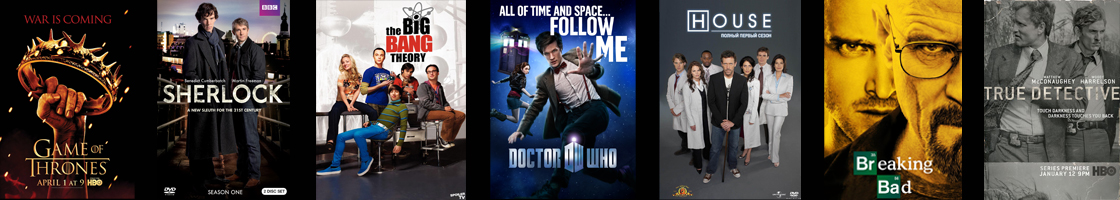
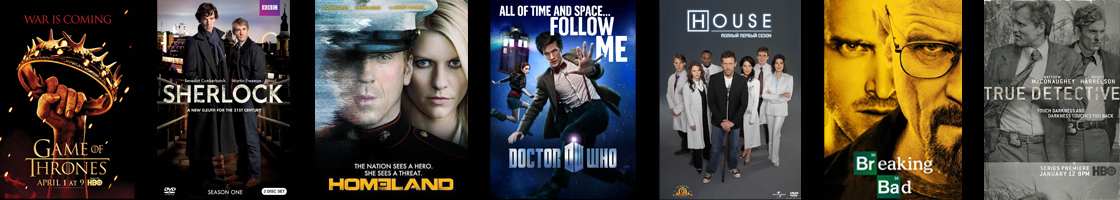
заполнение топ

Changed region(s): [[0.2812, 0.0, 0.4375, 1.0]]

diff --git a/top.html b/top.html
@@ -48,10 +48,112 @@
 							<h2>
 								Лучшие сериалы нашего времени
 							</h2>
-							<img class="top" src="images/game.jpg" width="1120" height="630" alt="Шерлок" />
-							<p align="justify"></p>
-							<p align="justify"></p>
-							
+							<p align="justify">Интересный факт из нейронаучных исследований: человек, и, действуя самостоятельно, и читая или смотря рассказ о действии, 
+							активирует те же участки мозга, то есть на уровне мозга невозможно определить, сам человек действует, или смотрит, читает об этом. 
+							Таким образом, просмотр сериалов может помочь человеку приобрести некоторый жизненный опыт, расширить его представления о мире, 
+							помочь адаптироваться к сложным реалиям современности. Наблюдая за героями, за непростыми ситуациями, в которых они оказываются, 
+							человек учится терпимее относиться к живым, окружающим его людям, приобретает здоровую психологию и гармоничный взгляд на мир.</p>
+							<img class="top" src="images/game.jpg" width="1120" height="630" alt="Кадр из Игры Престолов" />
+							<p align="justify">К концу подходит время благоденствия, и лето, длившееся почти десятилетие, угасает. 
+							Вокруг средоточия власти Семи королевств, Железного трона, зреет заговор, и в это непростое время король решает искать поддержки у друга юности Эддарда Старка. 
+							В мире, где все — от короля до наемника — рвутся к власти, плетут интриги и готовы вонзить нож в спину, есть место и благородству, состраданию и любви. 
+							Между тем, никто не замечает пробуждение тьмы из легенд далеко на Севере — и лишь Стена защищает живых к югу от нее.</p>
+							<p align="justify">Один из лучших телесериалов в жанре средневекового фэнтези, отличающийся тщательной проработкой деталей, глубиной характеров и прежде всего хорошей драматургией.</p>
+							<p align="justify">Никакой пересказ сюжета не даст должного представления о духе сериала «Игра престолов». 
+							Все разномастные имена персонажей и названия земель в стиле фэнтези  лишь формальная дань жанру. 
+							На деле зритель очень быстро забывает о том, что герои разряжены в псевдосредневековые одежды, размахивают мечами и стреляют из луков. 
+							На первый план выходят сложные интриги, борьба за сферы влияния и власть, напоминающие скорее коллизии классической криминальной саги в духе «Крестного отца». 
+							Несмотря на достаточную неторопливость событий, их логическая проработанность, 
+							психологическая достоверность и драматизм делают сериал одним из самых интригующих и качественных на мировом современном телеэкране.</p >
+							<img class="top" src="images/sherlock.jpg" width="1120" height="630" alt="Кадр из Шерлока" />
+							<p align="justify">Консультирующий детектив Шерлок Холмс, подыскивая соседа по квартире, знакомится с Джоном Ватсоном — военным врачом, вернувшимся из Афганистана. 
+							Они поселяются в доме 221 Б по Бейкер-стрит у пожилой хозяйки миссис Хадсон. Шерлок и Джон помогают Скотланд-Ярду в раскрытии сложных дел, 
+							используя методы наблюдения, анализа, дедукции, а также современные технологии, такие как интернет и мобильные телефоны.</p>
+							<p align="justify">Британский сериал «Шерлок», существующий на данный момент в количестве всего шести серий, прочно укрепился в нише главных телеразвлечений последнего времени. 
+							Идеальный выбор актеров на главные роли — впервые Холмс и Ватсон предстают перед нами молодыми людьми, именно такими, как их описывал поначалу Конан Дойл, — обеспечил сериалу массовый международный успех. </p>
+							<p align="justify">Авторы «Шэрлока» Марк Гэтисс и Стивен Моффат, известные работой над сериалами «Доктор Кто» и «Джекилл» радикально подошли к адаптации произведений Артура Конан Дойля: действие перенесено из XIX в XXI век. 
+							Главные роли Шерлока Холмса и доктора Джона Ватсона исполняют Бенедикт Камбербэтч и Мартин Фримен. Первый же сезон «Шерлока» собрал положительные отзывы критиков и был номинирован на несколько наград. 
+							В 2011 году «Шерлок» стал обладателем телевизионной премии BAFTA в категории «Лучший драматический сериал».</p>
+							<img class="top" src="images/house.jpg" width="1120" height="630" alt="Кадр из Доктора Хауса" />
+							<p align="justify">Команда врачей под руководством гениального, хоть и зловредного Грегори Хауса берется за самые сложные случаи. 
+							Сам доктор Хаус ходит с тростью и сидит на обезболивающих из-за того, что мышечный инфаркт в его правой ноге слишком поздно диагностировали. 
+							Как врач Хаус необычайно талантлив, но как человек не отличается проникновенностью в общении с больными. 
+							Будучи инфекционистом, он ещё и замечательный диагност, но любит решать медицинские загадки не столько чтобы спасти кому-то жизнь, сколько, кажется, из собственного интереса. 
+							Он избегает общения с больными, если только есть такая возможность, груб и нахален в общении с подчиненными и любит едко пошутить в самых неподходящих ситуациях. 
+							Порой его поведение можно назвать почти бесчеловечным, 
+							но несмотря на трудность его характера, на работе его ценят за его выдающийся ум и глубокие познания.</p>
+							<p align="justify">«Доктор Хаус» впервые был показан на американском телевидении в 2004 году и очень быстро завоевал мировую аудиторию — в огромной степени благодаря неотразимому шарму исполнителя главной роли Хью Лори — но и не без помощи талантливых сценаристов. 
+							Сериал получил множество престижных премий.</p>
+							<img class="top" src="images/bad.jpg" width="1120" height="630" alt="Кадр из Во все тяжкие" />
+							<p align="justify">Школьный учитель химии Уолтер Уайт узнаёт, что болен раком лёгких. 
+							Учитывая сложное финансовое положение семьи, а также отсутствие надежды на улучшение дел в будущем (жена Уолтера, Скайлер, беременна вторым ребёнком, а у сына детский церебральный паралич), Уолтер решает заняться изготовлением метамфетамина. 
+							Учитель разыскивает своего бывшего ученика Джесси Пинкмана, когда-то исключённого из школы при его собственном активном содействии. 
+							Пинкман сам занимался изготовлением метамфетамина, но накануне в результате полицейского рейда лишился подельника и лаборатории...</p>
+							<p align="justify">Герои лишены привычных кинематографических клише, это достаточно сложные персонажи с богатым эмоциональным миром. 
+							Очень важная линия сериала это метаморфозы, которые происходят с Уолтером и Джесси, интересно наблюдать как кротость Уолтера сменяется злостью и решительностью,
+							и как раздолбай Джесси становится ответственным и чутким к проблемам других людей.</p>
+							<p align="justify">Сериал «Во все тяжкие» впервые вышел на экраны в 2008 году и с тех пор неоднократно номинировался на «Эмми», традиционно получая несколько премий в год. 
+							Он заслужил высокие оценки критиков и был отмечен как один из лучших сериалов в истории телевидения мастером триллера Стивеном Кингом.</p>
+							<img class="top" src="images/cards.jpg" width="1120" height="630" alt="Кадр из Карточного домика" />
+							<p align="justify">Амбициозный конгрессмен от Демократической партии Фрэнк Андервуд в обмен на обещание сделать его госсекретарём помогает Гаррету Уокеру стать президентом США. 
+							Однако после выборов глава администрации президента Линда Васкез сообщает Андервуду, что он не получит должность. 
+							Взбешенные предательством Фрэнк и его жена готовы пойти на всё, чтобы отомстить новоиспечённому президенту.</p>
+							<p align="justify">В «Карточном домике» американские кинематографисты в который раз обращаются к теме власти. Они пытаются ответить на вопрос, как работают ее внутренние механизмы, какая энергия ею движет. 
+							И по их представлениям, пространство, в котором действует человек, наделенный политической властью, меньше всего располагает к процветанию идеалов правды и добра. 
+							Того, кто позволяет себе пренебречь принципами целесообразности, немедленно поглощают более сильные соперники. В итоге получилась развернутая иллюстрация к циничному тезису, выдвинутому еще в XVI веке Никколо Макиавелли: «Выгоднее для государя, когда его боятся, чем когда его любят. 
+							Ибо люди по своей природе неблагодарны и непостоянны, склонны к лицемерию и обману, их отпугивает опасность и влечет нажива».</p>
+							<img class="top" src="images/walking.jpg" width="1120" height="630" alt="Кадр из Ходячих мертвецов}" />
+							<p align="justify">Помощник шерифа Рик Граймс получает тяжёлое пулевое ранение, вследствие чего впадает в кому. 
+							Очнувшись в больнице, он обнаруживает, что весь медицинский персонал исчез, а в самом здании царит разруха.
+							Постепенно он приходит к осознанию того, что произошла трагедия и его привычный мир населен ожившими трупами. 
+							Он пытается во что бы то ни стало найти своих жену и сына, по-видимому, избежавших гибели, и помочь им выжить в опасном новом мире. 
+							По пути он встречается с другими уцелевшими и возглавляет борьбу за выживание.</p>
+							<p align="justify">Сериал «Ходячие мертвецы» основан на одноименной серии постаполикаптических комиксов Роберта Киркмана, Тони Мура и Чарли Адлара.</p>
+							<p align="justify">Рецепт успеха «Ходячих мертвецов» прост как все гениальное. Во-первых, жанр зомби-фильмов, видимо, не выйдет из моды никогда. 
+							Во-вторых, авторам удалось акцентировать внимание на внутреннем мире выживших, показать стагнацию изменений — социологических и психологических.</p>
+							<img class="top" src="images/doc.jpg" width="1120" height="630" alt="Кадр из Доктора Кто" />
+							<p align="justify">Гуманоид, называющий себя Доктором, путешествует сквозь время и пространство в космическом корабле, который снаружи выглядит как полицейская будка 50-х годов. 
+							Доктор чрезвычайно эксцентричен и имеет невероятные познания в технологии, истории и науке. Он путешествует вместе со своими компаньонами, борясь против космических злодеев. 
+							Изначально раздражительный и немного зловещий Доктор скоро смягчился и превратился в доброго и сострадательного.</p>
+							<p align="justify">Сериал «Доктор Кто» — самый продолжительный научно-фантастический сериал в мире. 
+							Новая версия «Доктор Кто» является прямым продолжением сезонов 1963-1989. В 2005 году обновленный «Доктор» вернулся на телевидение и стал уже не локальным, а мировым хитом:
+							сериал о путешествиях во времени оказался невероятно к месту в мире, где времени ни на что не хватает. 
+							В 2006 году сериал был удостоен премии BAFTA.</p>
+							<p align="justify">Актерская игра находится на высоком уровне, начиная от главных героев заканчивая эпизодическими персонажами. 
+							Восхитительные истории о любви, одиночестве, преданности, дружбе, сострадании в сочетании с безумными космическими приключениями, 
+							борьбой со злом и путешествиями во времени составляют тот самый, идеальный баланс, 
+							благодаря которому данное шоу является одним из самых популярных в мире сериалов для любых возрастов.</p>
+							<img class="top" src="images/true.jpg" width="1120" height="630" alt="Кадр из Настоящего детектива" />
+							<p align="justify">Двое полицейских, Раст Кол и Мартин Харт, расследуют дело 1995 года о серийном убийце в Луизиане. 
+							Когда-то, 17 лет назад, это дело познакомило Раста и Мартина, и с тех пор они вместе охотились за киллером. 
+							Новые улики, неожиданно появившиеся в 2012 году, могут привести к шокирующим открытиям, тем более что самим детективам  есть, что скрывать. 
+							Свидетельские показания многолетней давности перемежаются событиями, которые происходят в наше время.</p>
+							<p align="justify">Главное в сериале — это, конечно, персонажи и актерские работы. 
+							Раст Коул — доведенный до предела антигерой современной массовой культуры. 
+							Он не верит в человеческие объединения, презирая не только организованную религию и структуры власти, но и саму мысль о способности человека к нормальной коммуникации — люди не умеют любить, а умеют только судить. </p>
+							<p align="justify">«Настоящий детектив» с первых минут дает понять, что само расследование тут играет не самую важную роль. 
+							Ник Пиццолатто придумал настолько литературную историю, что даже сериальный формат ему не помеха, а может, даже помощник: впечатляющие монологи,
+							порой вызывающе патетичные; проработанные главные персонажи, с каждой серией раскрывающие новые детали биографии и характера.</p>
+							<img class="top" src="images/home.jpg" width="1120" height="630" alt="Кадр из Родины" />
+							<p align="justify">Сержанта морской пехоты Николаса Броуди долгое время считали пропавшим без вести и предположительно погибшим в бою. 
+							Но вот — его находят после рейда на штаб-квартиру террористов. 
+							Эксперт ЦРУ по Ближнему Востоку Кэрри Мэтисон считает, что в настоящее время сержант Броуди завербован «Аль-Каидой» и специально «оставлен» 
+							спасшему его отряду спецподразделения Дельта для возвращения в США и организации террористической атаки. 
+							Однако, руководство страны и общественность верят, что сержант Броуди — герой войны,  что значительно  затрудняет расследование. 
+							Сериал в жанре психологического триллера «чужой среди своих» впервые появился на экранах в 2011 году и сразу полюбился и критикам и аудитории.</p>
+							<p align="justify">Выверенный шпионский триллер смело рифмует  терроризм с любовной историей 
+							и семейной драмой, вызывая у зрителя противоречивые желания сопереживания то одному, то другому герою.</p>
+							<img class="top" src="images/shame.jpg" width="1120" height="630" alt="Кадр из Бесстыжих" />
+							<p align="justify">Американский ремейк британского сериала, повествующий о взбалмошной многодетной семье 
+							Галлахеров и их соседях, которые веселятся, 
+							попадают в самые невероятные ситуации и пытаются выжить в этом мире всеми возможными средствами, но при этом как можно меньше работая.</p>
+							<p align="justify">Практически все актеры отыгрывают свои роли на сто процентов. 
+							Великолепно сняты драматические сцены, которые затрагивают в зрителе, самые глубокие чувства. 
+							Безупречная операторская робота, прекрасная подача контраста света и стиля персонажей. 
+							Режиссер мастерски изображает события сюжета. Саудтреки и музыкальное сопровождение подобраны идеально, 
+							что придает печальным сценам еще больше драматизма. В сериале нет четкой сюжетной линии, зритель наблюдает 
+							просто историю жизней всех членов не очень благополучной семьи, погружаясь в атмосферу взлетов и падений персонажей, 
+							учась не сдаваться и сопереживать и видеть в людях что-то большее, чем внешнюю оболочку, социальный статус.</p>
 							
     </body>
 </html>
